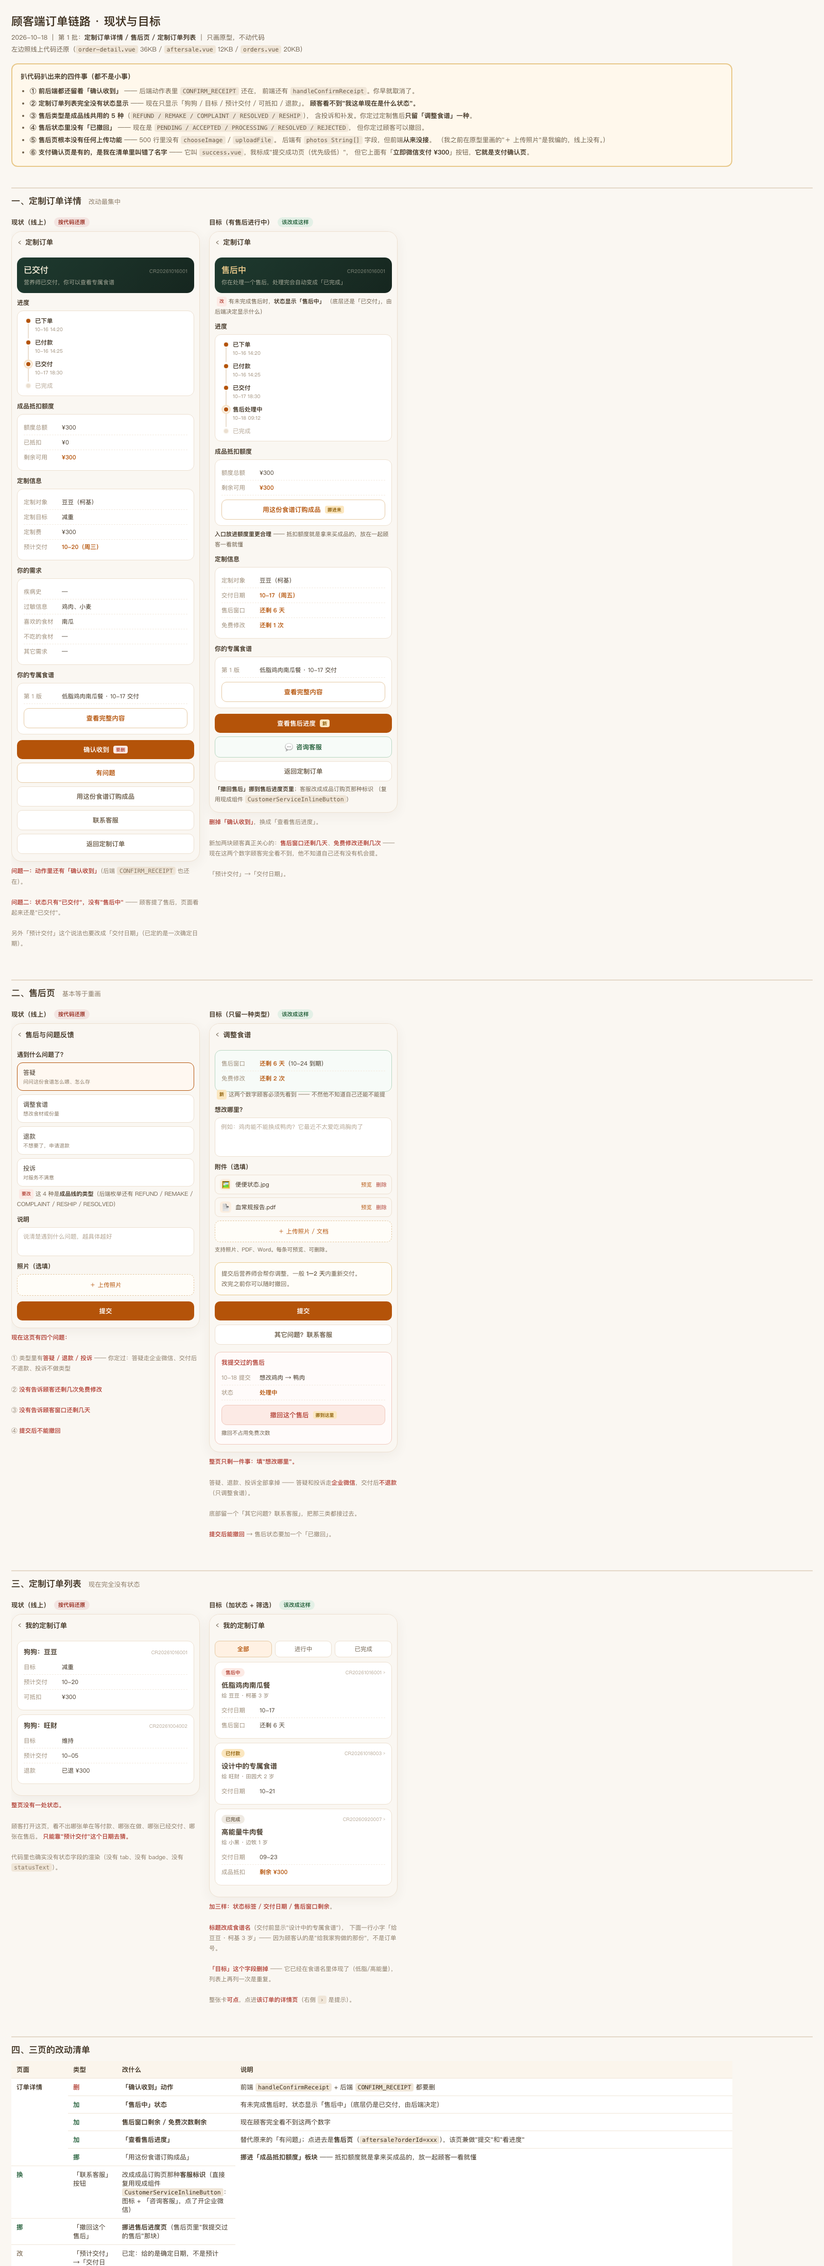
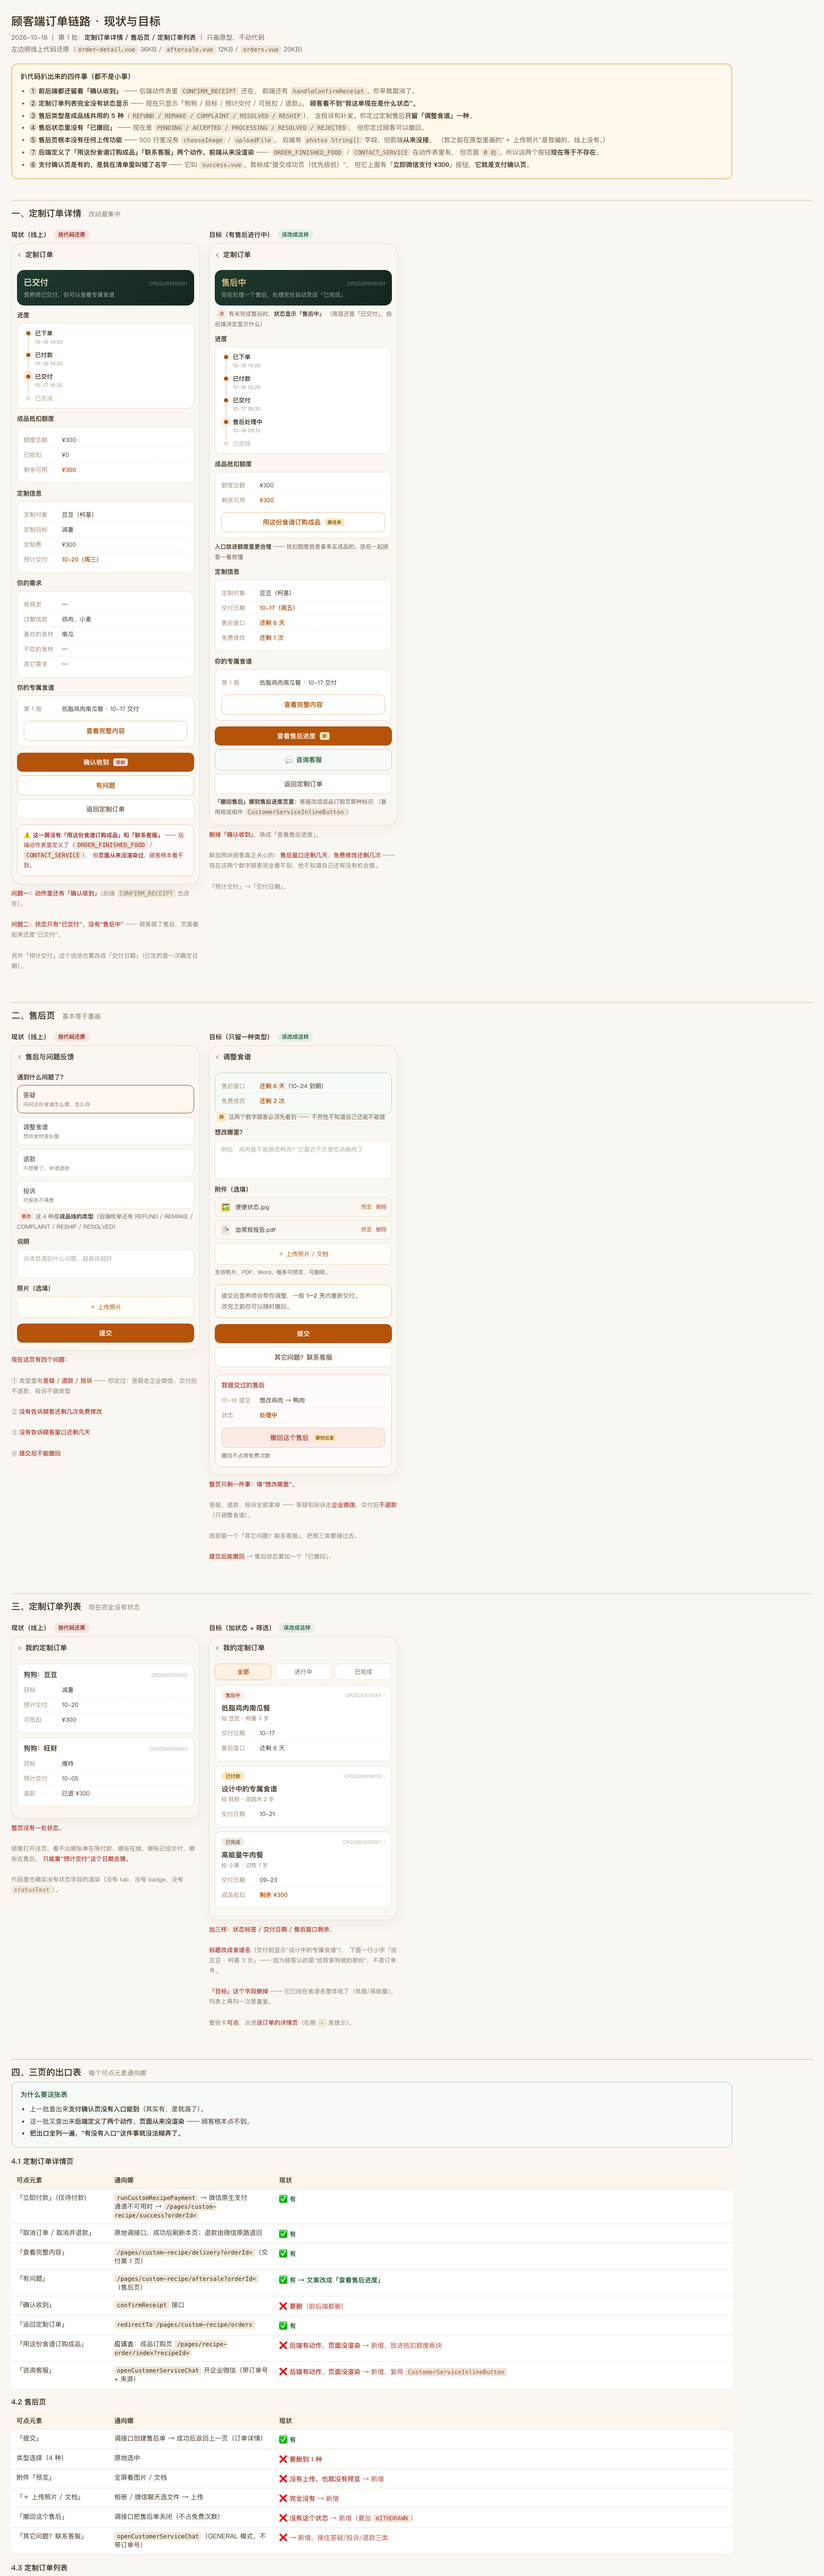
docs: 三页出口表 + 第 1 批定稿（又查出两处断头路）
老板要求"每页补一张出口表"，并确认第 1 批定稿。

## 出口表查出两个新的"断头路"

**① 后端定义了「用这份食谱订购成品」「咨询客服」，页面从来没渲染**

| 动作 | 后端 | 页面 |
|---|---|---|
| `ORDER_FINISHED_FOOD` | 2 处 | **0 处** |
| `CONTACT_SERVICE` | 3 处 | **0 处** |

所以这两个按钮**现在等于不存在**，顾客看不到也点不到。
我之前"现状"里画了它们 —— **是我编的**，已从现状页删掉并标注。

**② 售后页的附件上传同样是断头路** —— 后端有 `photos`，前端没有入口。

## 出口表本身

三页各一张，列每个可点元素 → 通向哪 → 现状（有/要删/要新增）。
包括：
- 订单详情 8 个出口（含两个要新增的）
- 售后页 6 个出口（4 个要新增）
- 订单列表 5 个出口（1 个要新增）

## 第 1 批定稿

顾客端订单链路三页（订单详情 / 售后页 / 订单列表）标记为定稿。
清单文档里已注明，并记下这三处断头路。

## 一个流程改进

以后每页原型都附出口表 —— 这样"有没有入口能到"这件事没法糊弄。
这次两张断头路就是靠列表 / 逐个核对查出来的。

Changed region(s): [[0.0, 0.0, 0.6875, 1.0]]

diff --git a/docs/prototypes/2026-10-18-order-flow-refactor.html b/docs/prototypes/2026-10-18-order-flow-refactor.html
@@ -161,6 +161,9 @@
     <li><b>⑤ 售后页根本没有任何上传功能</b> —— 500 行里没有 <code>chooseImage</code> / <code>uploadFile</code>。
       后端有 <code>photos String[]</code> 字段，但前端<b>从来没接</b>。
       （我之前在原型里画的"＋ 上传照片"是我编的，线上没有。）</li>
+    <li><b>⑦ 后端定义了「用这份食谱订购成品」「联系客服」两个动作，前端从来没渲染</b> ——
+      <code>ORDER_FINISHED_FOOD</code> / <code>CONTACT_SERVICE</code> 在动作表里有，
+      但页面 <code>0 处</code>。所以这两个按钮<b>现在等于不存在</b>。</li>
     <li><b>⑥ 支付确认页是有的，是我在清单里叫错了名字</b> ——
       它叫 <code>success.vue</code>，我标成"提交成功页（优先级低）"，
       但它上面有「<b>立即微信支付 ¥300</b>」按钮，<b>它就是支付确认页</b>。</li>
@@ -239,9 +242,14 @@
         <div class="btns">
           <div class="btn btn--main">确认收到 <span class="mark mark--fix">要删</span></div>
           <div class="btn btn--ghost">有问题</div>
-          <div class="btn btn--line">用这份食谱订购成品</div>
-          <div class="btn btn--line">联系客服</div>
           <div class="btn btn--line">返回定制订单</div>
+        </div>
+        <div class="card card--warn" style="margin-top:10px">
+          <div style="font-size:11px;color:#96271a;line-height:1.7">
+            <b>⚠ 这一屏没有「用这份食谱订购成品」和「联系客服」</b> ——
+            后端动作表里定义了（<code>ORDER_FINISHED_FOOD</code> / <code>CONTACT_SERVICE</code>），
+            但<b>页面从来没渲染过</b>，顾客根本看不到。
+          </div>
         </div>
 
       </div>
@@ -574,7 +582,66 @@
 </div>
 
 <!-- ================================================================ -->
-<h2>四、三页的改动清单</h2>
+<h2>四、三页的出口表 <span>每个可点元素通向哪</span></h2>
+
+<div class="banner" style="margin:0 0 10px;border-color:#CFE3D5;background:#F7FBF8">
+  <div class="banner__t" style="color:#1e5b35">为什么要这张表</div>
+  <ul style="color:#3F3222">
+    <li>上一批查出来<b>支付确认页没有入口能到</b>（其实有，是我漏了）。</li>
+    <li>这一批又查出来<b>后端定义了两个动作、页面从来没渲染</b> —— 顾客根本点不到。</li>
+    <li><b>把出口全列一遍，"有没有入口"这件事就没法糊弄了。</b></li>
+  </ul>
+</div>
+
+<h3 style="font-size:14px;margin:16px 0 6px">4.1 定制订单详情页</h3>
+<table class="diff">
+  <tr><th style="width:190px">可点元素</th><th style="width:320px">通向哪</th><th>现状</th></tr>
+  <tr><td>「立即付款」（仅待付款）</td><td><code>runCustomRecipePayment</code> → 微信原生支付<br />
+    通道不可用时 → <code>/pages/custom-recipe/success?orderId=</code></td><td class="new">✅ 有</td></tr>
+  <tr><td>「取消订单 / 取消并退款」</td><td>原地调接口，成功后刷新本页；退款由微信原路退回</td><td class="new">✅ 有</td></tr>
+  <tr><td>「查看完整内容」</td><td><code>/pages/custom-recipe/delivery?orderId=</code>（交付第 1 页）</td><td class="new">✅ 有</td></tr>
+  <tr><td>「有问题」</td><td><code>/pages/custom-recipe/aftersale?orderId=</code>（售后页）</td><td class="new">✅ 有 → <b>文案改成「查看售后进度」</b></td></tr>
+  <tr><td>「确认收到」</td><td><code>confirmReceipt</code> 接口</td><td class="del">❌ <b>要删</b>（前后端都删）</td></tr>
+  <tr><td>「返回定制订单」</td><td><code>redirectTo /pages/custom-recipe/orders</code></td><td class="new">✅ 有</td></tr>
+  <tr><td>「用这份食谱订购成品」</td><td><b>应该去</b>：成品订购页 <code>/pages/recipe-order/index?recipeId=</code></td>
+    <td class="del">❌ <b>后端有动作、页面没渲染</b> → 新增，放进抵扣额度板块</td></tr>
+  <tr><td>「咨询客服」</td><td><code>openCustomerServiceChat</code> 开企业微信（带订单号 + 来源）</td>
+    <td class="del">❌ <b>后端有动作、页面没渲染</b> → 新增，复用 <code>CustomerServiceInlineButton</code></td></tr>
+</table>
+
+<h3 style="font-size:14px;margin:18px 0 6px">4.2 售后页</h3>
+<table class="diff">
+  <tr><th style="width:190px">可点元素</th><th style="width:320px">通向哪</th><th>现状</th></tr>
+  <tr><td>「提交」</td><td>调接口创建售后单 → 成功后返回上一页（订单详情）</td><td class="new">✅ 有</td></tr>
+  <tr><td>类型选择（4 种）</td><td>原地选中</td><td class="del">❌ <b>要删到 1 种</b></td></tr>
+  <tr><td>附件「预览」</td><td>全屏看图片 / 文档</td><td class="del">❌ <b>没有上传，也就没有预览</b> → 新增</td></tr>
+  <tr><td>「＋ 上传照片 / 文档」</td><td>相册 / 微信聊天选文件 → 上传</td><td class="del">❌ <b>完全没有</b> → 新增</td></tr>
+  <tr><td>「撤回这个售后」</td><td>调接口把售后单关闭（不占免费次数）</td><td class="del">❌ <b>没有这个状态</b> → 新增（要加 <code>WITHDRAWN</code>）</td></tr>
+  <tr><td>「其它问题？联系客服」</td><td><code>openCustomerServiceChat</code>（GENERAL 模式，不带订单号）</td>
+    <td class="del">❌ → 新增，接住答疑/投诉/退款三类</td></tr>
+</table>
+
+<h3 style="font-size:14px;margin:18px 0 6px">4.3 定制订单列表</h3>
+<table class="diff">
+  <tr><th style="width:190px">可点元素</th><th style="width:320px">通向哪</th><th>现状</th></tr>
+  <tr><td><b>整张卡片</b></td><td><code>navigateTo /pages/custom-recipe/order-detail?orderId=</code></td><td class="new">✅ 有</td></tr>
+  <tr><td>「查看交付内容」（若有）</td><td><code>/pages/recipe-detail/index?id=</code></td><td class="new">✅ 有（旧口径）→ 应改成交付第 1 页</td></tr>
+  <tr><td>待付款卡的「去支付」</td><td><code>/pages/custom-recipe/success?orderId=</code></td><td class="new">✅ 有</td></tr>
+  <tr><td>「立即定制」</td><td><code>/pages/custom-recipe/index</code></td><td class="new">✅ 有</td></tr>
+  <tr><td>筛选（全部 / 进行中 / 已完成）</td><td>原地过滤</td><td class="del">❌ 没有 → 新增</td></tr>
+</table>
+
+<div class="banner" style="margin-top:16px;border-color:#E8CFC8;background:#FFF9F8">
+  <div class="banner__t">出口表查出来的两个"断头路"</div>
+  <ul>
+    <li><b>「用这份食谱订购成品」和「咨询客服」是断头路</b> ——
+      后端动作定义好了，但页面从来不渲染，<b>顾客看不到也点不到</b>。</li>
+    <li><b>售后页的附件上传也是断头路</b> ——
+      后端有 <code>photos</code> 字段，前端没有上传入口。</li>
+  </ul>
+</div>
+
+<h2>五、三页的改动清单</h2>
 <table class="diff">
   <tr><th style="width:110px">页面</th><th style="width:60px">类型</th><th style="width:230px">改什么</th><th>说明</th></tr>
 
@@ -587,11 +654,12 @@
     <td>现在顾客完全看不到这两个数字</td></tr>
   <tr><td class="new" style="font-weight:700">加</td><td><b>「查看售后进度」</b></td>
     <td>替代原来的「有问题」；点进去是<b>售后页</b>（<code>aftersale?orderId=xxx</code>），该页兼做"提交"和"看进度"</td></tr>
-  <tr><td class="new" style="font-weight:700">挪</td><td>「用这份食谱订购成品」</td>
-    <td><b>挪进「成品抵扣额度」板块</b> —— 抵扣额度就是拿来买成品的，放一起顾客一看就懂</td></tr>
-  <tr><td class="new" style="font-weight:700">换</td><td>「联系客服」按钮</td>
-    <td>改成成品订购页那种<b>客服标识</b>（直接复用现成组件 <code>CustomerServiceInlineButton</code>：
-      图标 + 「咨询客服」，点了开企业微信）</td></tr>
+  <tr><td class="new" style="font-weight:700">新增</td><td>「用这份食谱订购成品」</td>
+    <td><b>后端有动作、页面没渲染 —— 等于从来没有</b>。要<b>新增</b>，并且放进「成品抵扣额度」板块
+      （抵扣额度就是拿来买成品的，放一起顾客一看就懂）</td></tr>
+  <tr><td class="new" style="font-weight:700">新增</td><td>「咨询客服」按钮</td>
+    <td><b>同样是后端有动作、页面没渲染</b>。要新增，并用成品订购页那种<b>客服标识</b>
+      （直接复用现成组件 <code>CustomerServiceInlineButton</code>：图标 + 「咨询客服」，点了开企业微信）</td></tr>
   <tr><td class="new" style="font-weight:700">挪</td><td>「撤回这个售后」</td>
     <td><b>挪进售后进度页</b>（售后页里"我提交过的售后"那块）</td></tr>
   <tr><td style="color:#8A7A66;font-weight:700">改</td><td>「预计交付」→「交付日期」</td>
@@ -622,7 +690,7 @@
 </table>
 
 <!-- ================================================================ -->
-<h2>五、几个口径写死在这（避免以后又各说各的）</h2>
+<h2>六、几个口径写死在这（避免以后又各说各的）</h2>
 <table class="diff">
   <tr><th style="width:180px">项</th><th>约定</th></tr>
   <tr>

diff --git a/docs/plans/2026-10-18-custom-recipe-page-inventory.md b/docs/plans/2026-10-18-custom-recipe-page-inventory.md
@@ -25,6 +25,15 @@
 
 ## 二、顾客端：还没确认的 7 项
 
+> **✅ 第 1 批（订单详情 / 售后页 / 订单列表）已于 2026-10-18 定稿** ——
+> 原型见 `docs/prototypes/2026-10-18-order-flow-refactor.html`（含**三页出口表**）。
+>
+> 定稿时查出三处"断头路"：
+> ① 后端定义了「用这份食谱订购成品」「咨询客服」两个动作，**页面从来没渲染**；
+> ② 售后页**完全没有附件上传**（后端有 `photos` 字段）；
+> ③ 支付确认页其实存在（`success.vue`），是我在清单里叫错了名字。
+
+
 | # | 页面 / 功能 | 现在有没有 | 为什么必须过 | 优先级 |
 |---|---|---|---|---|
 | 1 | **定制订单详情** | ✅ 有（`custom-recipe/order-detail.vue`，36KB） | 进度时间轴、状态显示、动作按钮 —— **状态机刚定，页面必然要改** | 🔴 高 |
